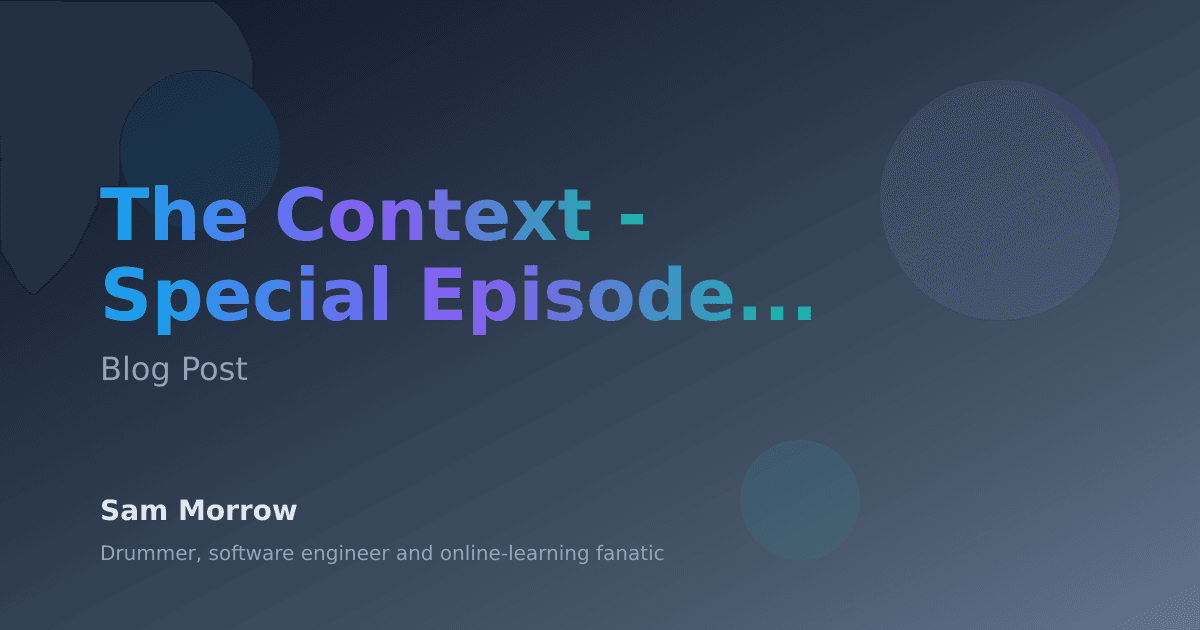
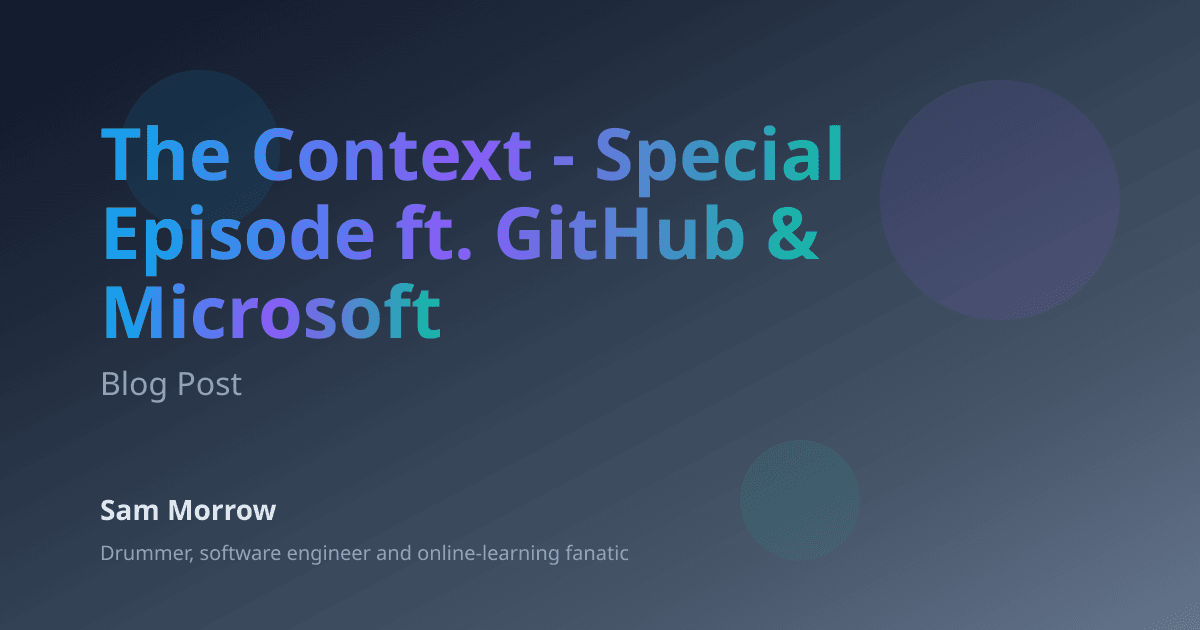
fix(blog): show full titles in rectangular social images (#82)
* docs(blog): add Stop Multicasting Slop post

* fix(og): rename lib/seo.js to .mjs so OG images generate on Node 18

generate-og-images.mjs dynamically imports lib/seo.js. Without "type": "module", Node 18 (CI and Netlify) loads it as CommonJS and fails on 'export'. The error was swallowed, so new posts shipped without social images. Same fix as #74 for lib/api.js.

* fix(blog): embed bare YouTube URLs again and drop them from excerpts

remark-gfm (added in #73) autolinks bare URLs before remarkYouTubeEmbed runs, so standalone YouTube URLs rendered as plain links. Also strip standalone URL lines from generated excerpts so they don't appear in social descriptions.

* docs(blog): add Connecting Copilot at GitHub Universe post

* fix(blog): persist social images and fail on generation errors

Include generated images for both new posts, correct the workflow module paths, and cover generation failures with Node 18 regression tests.

* fix(blog): show full titles in larger square social images

Square images capped titles at 12 characters over two lines, so most
titles were truncated and set small. Measure rendered text with the
build machine's fonts and pick the largest size (128px down to 72px)
that fits the whole title in four lines, centred, with larger subtitle
and author text. Escape XML in titles. Rectangular images are unchanged.

* fix(blog): show full titles in rectangular social images

Rectangular images capped titles at 18 characters over two lines and
[…]

diff --git a/_blog/connecting-copilot-at-github-universe.md b/_blog/connecting-copilot-at-github-universe.md
@@ -7,3 +7,33 @@ slug: 'connecting-copilot-at-github-universe'
 https://www.youtube.com/watch?v=F2UUxR4kRlI
 
 My team and I built a thing: [GitHub Copilot Connectors](https://docs.github.com/en/copilot/concepts/customizations/copilot-connectors)
+
+Check out my demo at GitHub Universe, you can try connectors out immediately via [copilot/customize](https://github.com/copilot/customize) (make sure you log in first). This has been a huge improvement in convenience, especially the fact the GitHub iOS app now lets me use my connectors in Copilot Chat.
+
+Universe itself was absolutely amazing to attend, so many people are building such amazing things - and it's an incredible production too!
+
+I worked at the booth on day 2 which was a full sized diner, kitchen and speakeasy!
+
+![Four speakers recording the pre-keynote livestream](/images/github-universe-2026/panel-recording.webp)
+
+*Recording the pre-keynote livestream*
+
+![Attendees watching the livestream broadcast on-site](/images/github-universe-2026/panel-broadcast.webp)
+
+*Livestream broadcast on-site*
+
+![Group photo at the Figma MCP Panel on day 2](/images/github-universe-2026/figma-developer-meetup.webp)
+
+*Figma MCP Panel on day 2*
+
+![Developer-themed record sleeves at the Open Source Record Store](/images/github-universe-2026/hi-fi-code-display.webp)
+
+*Open Source Record Store*
+
+![The MCP "Plugged In" record sleeve in a wooden record display](/images/github-universe-2026/mcp-record-display.webp)
+
+*MCP record*
+
+![Holding the MCP "Plugged In" record sleeve at GitHub Universe](/images/github-universe-2026/mcp-record-selfie.webp)
+
+*Me holding the MCP record*
